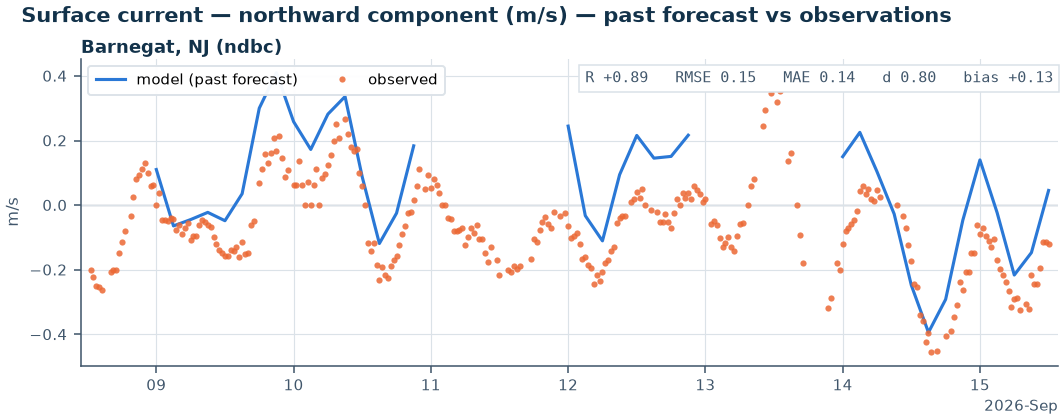
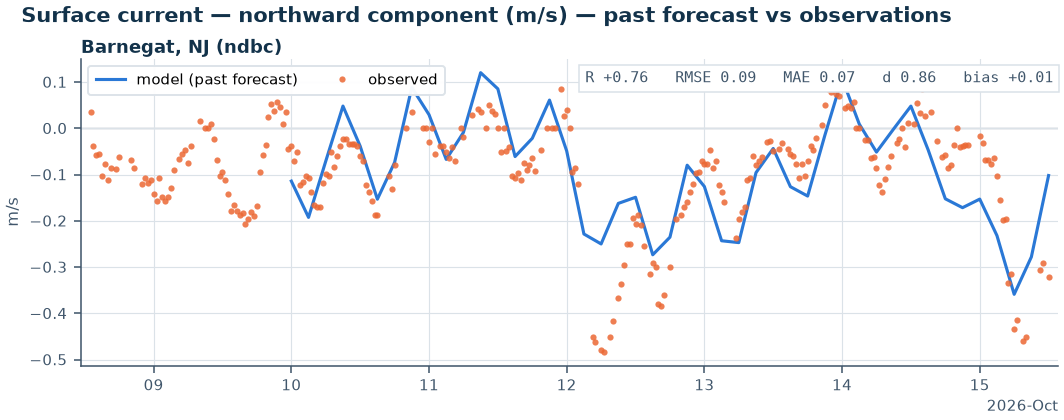
Refresh NYB ROFS prototype with latest forecast cycle and add wind skill
Update skill stats and figures from the 2026-10-15 forecast cycle
(6 past cycles of validation history), add 10 m wind forecast and
skill-check panels, and tighten wording on related product/portfolio
pages to consistently describe the NYB system as a prototype rather
than an operational/daily service.

Claude-Session: https://claude.ai/code/session_01WjMpVuGA6Y16EBbD6ffhXo

diff --git a/site/content/portfolio/independent-projects/regional-ocean-forecast-nyb.md b/site/content/portfolio/independent-projects/regional-ocean-forecast-nyb.md
@@ -1,21 +1,21 @@
 ---
-title: "Regional Operational Ocean Forecast for New York Bight (Prototype)"
+title: "Regional Ocean Forecast for New York Bight (Prototype)"
 date: 2026-01-01
-description: "A self-operated ROMS regional ocean forecast system for the New York Bight, running a daily 5-day forecast cycle for surface currents, water level, temperature, and salinity, with skill checked against NOAA tide gauges."
-challenge: "Operating a forecast system is a different test than building the model itself. The daily cycle — forcing data ingestion, model execution, quality checks, and report generation — has to run reliably every day, and the forecasts have to be checked against what the ocean actually did, not just judged as plausible-looking."
+description: "A prototype ROMS regional ocean forecast system for the New York Bight, run on a local workstation, producing 5-day forecasts of surface currents, water level, temperature, and salinity, with skill checked against NOAA CO-OPS and NDBC observations."
+challenge: "Operating a forecast system is a different test than building the model itself. Each forecast cycle — forcing data ingestion, model execution, quality checks, and report generation — has to run reliably end to end, and the forecasts have to be checked against what the ocean actually did, not just judged as plausible-looking."
 approach: "Run a ROMS configuration for the New York Bight (Long Island Sound through the New York/New Jersey shelf) on a rolling 5-day forecast cycle, ingesting atmospheric forcing and open-boundary/tidal conditions to generate forecasts of surface currents, water level, temperature, and salinity, and checking each cycle's water-level forecast against NOAA CO-OPS tide gauge observations at Sandy Hook, NJ and Montauk, NY."
-result: "The system runs a daily operational cycle whose water-level forecasts track the CO-OPS tide gauge record closely — correlation of 0.95 at Sandy Hook and 0.90 at Montauk — with comparable current skill (R of 0.88-0.89 against an NDBC buoy at Barnegat, NJ) and more mixed sea-surface temperature skill (R of 0.12-0.65 across five stations), tracked daily in the report below."
+result: "In this prototype, water-level forecasts track the CO-OPS tide gauge record closely — correlation of 0.95 at Sandy Hook and 0.87 at Montauk — with somewhat weaker current skill (R of 0.76 against an NDBC buoy at Barnegat, NJ), more mixed sea-surface temperature skill (R of 0.42-0.79 across five stations), and 10 m wind skill (R of 0.64-0.92 across three stations), all tracked in the report below."
 tags: ["ROMS", "operational forecasting", "New York Bight"]
 link: ""
 image: "/img/portfolio/nyb-forecast/cur_speed_snapshots.png"
 weight: 5
 ---
 
-Same underlying capability as the [Regional Ocean Forecast System (ROMS)](/products/modeling-products/regional-forecast-system-roms/) product, now configured for the New York Bight and run independently as a self-directed operational project.
+Same underlying capability as the [Regional Ocean Forecast System (ROMS)](/products/modeling-products/regional-forecast-system-roms/) product, now configured for the New York Bight and run independently as a self-directed prototype on a local workstation.
 
-## Daily Forecast Report
+## Forecast Report
 
-Each daily cycle runs a 5-day forecast on a curvilinear ROMS grid (200×85 rho points) spanning Long Island Sound through the New York/New Jersey shelf, and compiles the results into a report covering:
+Each forecast cycle runs a 5-day forecast on a curvilinear ROMS grid (200×85 rho points) spanning Long Island Sound through the New York/New Jersey shelf, and compiles the results into a report covering:
 
 ![NYB ROMS grid, 200 by 85 rho points, spanning Long Island Sound through the New York/New Jersey shelf, with station output locations marked](/img/portfolio/nyb-forecast/grid_mesh.png)
 *Model domain and grid — the curvilinear ROMS mesh used for the forecast, with output station locations marked.*
@@ -29,19 +29,28 @@ Each daily cycle runs a 5-day forecast on a curvilinear ROMS grid (200×85 rho p
 ![Six-panel forecast of sea-surface salinity across the domain at 24-hour intervals from +0h to +120h](/img/portfolio/nyb-forecast/sss_snapshots.png)
 *Sea-surface salinity over the same 5-day forecast window.*
 
+![Six-panel forecast of 10 m wind speed and direction across the domain at 24-hour intervals from +0h to +120h](/img/portfolio/nyb-forecast/wind_speed_snapshots.png)
+*10 m wind speed and direction (GFS forcing) over the same 5-day forecast window.*
+
 ![Time series of surface current speed and direction, wind speed and direction, sea-surface temperature, and sea-surface salinity at a mid-shelf point forecast location](/img/portfolio/nyb-forecast/point_timeseries.png)
 *Point forecast time series at a mid-shelf location — currents, wind, temperature, and salinity through the forecast window.*
 
 ![Modeled versus observed water level at NOAA CO-OPS tide gauges Sandy Hook, NJ and Montauk, NY, with skill statistics](/img/portfolio/nyb-forecast/validation_zeta_timeseries.png)
-*Daily skill check — modeled water level against NOAA CO-OPS tide gauge observations at Sandy Hook, NJ and Montauk, NY.*
+*Skill check — modeled water level against NOAA CO-OPS tide gauge observations at Sandy Hook, NJ and Montauk, NY.*
 
 ![Modeled versus observed eastward surface current component at an NDBC buoy at Barnegat, NJ, with skill statistics](/img/portfolio/nyb-forecast/validation_cur_u_timeseries.png)
-*Daily skill check — modeled surface current (eastward component) against an NDBC buoy at Barnegat, NJ: R = 0.88, RMSE = 0.11 m/s.*
+*Skill check — modeled surface current (eastward component) against an NDBC buoy at Barnegat, NJ: R = 0.76, RMSE = 0.09 m/s.*
 
 ![Modeled versus observed northward surface current component at an NDBC buoy at Barnegat, NJ, with skill statistics](/img/portfolio/nyb-forecast/validation_cur_v_timeseries.png)
-*Daily skill check — modeled surface current (northward component), same station: R = 0.89, RMSE = 0.15 m/s.*
+*Skill check — modeled surface current (northward component), same station: R = 0.76, RMSE = 0.09 m/s.*
 
 ![Modeled versus observed sea-surface temperature at five NDBC and NOAA CO-OPS stations, with skill statistics](/img/portfolio/nyb-forecast/validation_sst_timeseries.png)
-*Daily skill check — modeled sea-surface temperature against five NDBC/CO-OPS stations. Correlation ranges from 0.12 to 0.65 — noticeably weaker than the water-level and current skill, and an area tracked for ongoing improvement.*
+*Skill check — modeled sea-surface temperature against five NDBC/CO-OPS stations. Correlation ranges from 0.42 to 0.79 — weaker than the water-level skill, and an area tracked for ongoing improvement.*
+
+![Modeled versus observed eastward 10 m wind component at three NDBC and NOAA CO-OPS stations, with skill statistics](/img/portfolio/nyb-forecast/validation_wind_u_timeseries.png)
+*Skill check — modeled 10 m wind (eastward component, GFS forcing) against three NDBC/CO-OPS stations. Correlation ranges from 0.83 to 0.92.*
+
+![Modeled versus observed northward 10 m wind component at three NDBC and NOAA CO-OPS stations, with skill statistics](/img/portfolio/nyb-forecast/validation_wind_v_timeseries.png)
+*Skill check — modeled 10 m wind (northward component), same stations. Correlation ranges from 0.64 to 0.89 — weakest at the New York Harbor Entrance buoy, strongest at Sandy Hook and Montauk.*
 
 No wave forecasting is included in this system — ROMS runs circulation only, without a coupled wave model.

diff --git a/site/content/products/modeling-products/coastal-hydrodynamic-model-schism.md b/site/content/products/modeling-products/coastal-hydrodynamic-model-schism.md
@@ -11,7 +11,7 @@ weight: 15
 ## Description ##
 Coastal and shelf circulation models each make different tradeoffs — grid type, resolution, computational cost, and which physics they resolve well — so I match the model to the domain and the question being asked rather than defaulting to one system:
 
-- **ROMS** — 3D shelf circulation on a structured curvilinear grid, currently configured for the Texas-Louisiana shelf (the same domain used in [Regional Forecast System](/products/modeling-products/regional-forecast-system-roms/)) and for an operational forecast of the New York Bight (see [Regional Operational Ocean Forecast for New York Bight](/portfolio/independent-projects/regional-ocean-forecast-nyb/)). In both cases the model runs on a rolling forecast cycle, forced by NOAA GFS atmospheric data and Copernicus open-boundary conditions with OSU TPXO tides, and checked daily against water-level, current, and temperature observations.
+- **ROMS** — 3D shelf circulation on a structured curvilinear grid, currently configured for the Texas-Louisiana shelf (the same domain used in [Regional Forecast System](/products/modeling-products/regional-forecast-system-roms/)) and for a prototype forecast of the New York Bight (see [Regional Ocean Forecast for New York Bight (Prototype)](/portfolio/independent-projects/regional-ocean-forecast-nyb/)). In both cases the model runs on a rolling forecast cycle, forced by NOAA GFS atmospheric data and Copernicus open-boundary conditions with OSU TPXO tides, and checked against water-level, current, and temperature observations.
 - **SCHISM-WWM** — general-purpose coastal and estuarine circulation on an unstructured grid, which handles complex coastlines and variable resolution (fine nearshore, coarse offshore) more naturally than a structured grid. Configured for the New York Bight, and used as the regional layer in [Hurricane Ike Beach and Dune Erosion Modeling on Bolivar Peninsula (XBeach)](/portfolio/independent-projects/hurricane-ike-beach-dune-erosion-xbeach/) to drive a high-resolution local storm-impact model.
 - **ADCIRC** — storm surge and inundation modeling; see [Hurricane Wave and Storm Surge Modeling](/products/modeling-products/hurricane-wave-storm-surge-modeling/) for the coupled ADCIRC-SWAN storm-surge setup for Galveston Bay.
 
@@ -20,7 +20,7 @@ The same toolkit extends to standalone wave modeling with SWAN (nearshore/shelf)
 <!-- [Add: grid resolution and validation results for the SCHISM-WWM New York Bight and ADCIRC Galveston Bay configurations.] -->
 
 ## Example ##
-- [Regional Operational Ocean Forecast for New York Bight](/portfolio/independent-projects/regional-ocean-forecast-nyb/) — ROMS, daily operational forecast cycle
+- [Regional Ocean Forecast for New York Bight (Prototype)](/portfolio/independent-projects/regional-ocean-forecast-nyb/) — ROMS, prototype 5-day forecast
 - [Hurricane wave and storm surge modeling for Galveston Bay](/portfolio/independent-projects/hurricane-ike-schism-wwm-nested-validation/) — SCHISM-WWM and ADCIRC-SWAN
 - [Hurricane Ike Beach and Dune Erosion Modeling on Bolivar Peninsula (XBeach)](/portfolio/independent-projects/hurricane-ike-beach-dune-erosion-xbeach/) — SCHISM-WWM regional storm hindcast feeding a local XBeach model
 

diff --git a/site/content/portfolio/independent-projects/wave-surge-model-intercomparison.md b/site/content/portfolio/independent-projects/wave-surge-model-intercomparison.md
@@ -4,7 +4,7 @@ date: 2026-01-01
 description: "Comparing coupled ADCIRC-SWAN and SCHISM-WWM storm surge and wave models for the Galveston, Texas coast, nested from a Gulf of Mexico regional domain, against Hurricane Harvey (2017)."
 challenge: "Coupled wave-surge models differ in mesh type, coupling approach, and computational cost, and it's often unclear which setup best fits a specific coastal application without actually running both against the same storm, the same nesting strategy, and the same observation network."
 approach: "Set up both ADCIRC-SWAN and SCHISM-WWM for the Galveston, Texas coast using a nested-domain approach: running each model first over a Gulf of Mexico regional domain, then nesting a local Galveston-area domain driven by boundary conditions from that Gulf-wide run. Checked every result against the same eight NOAA CO-OPS water-level gauges and the NDBC buoy at 42035."
-result: "At the regional Gulf-of-Mexico scale, SCHISM-WWM matched observed wave heights better than ADCIRC-SWAN and finished in roughly a third of the total compute. At the local Galveston scale, SCHISM-WWM reproduced roughly 70–90% of the observed storm-surge rise at the five open-coast and inlet gauges (correlation 0.68–0.89) and ADCIRC-SWAN roughly 30–45% (correlation 0.57–0.83). Local current speed is only about a third of the observed depth-averaged value: about half on tide-only days, and much less during the storm because the run has no river or rainfall inflow to drive the sustained outflow the current meter recorded. Two bay-interior gauges also don't respond in the model at all — all documented below as open problems."
+result: "Preliminary results (work ongoing): at the regional Gulf-of-Mexico scale, SCHISM-WWM matched observed wave heights better than ADCIRC-SWAN and ran about 4.5x faster in wall-clock time, using roughly a third of the total compute. At the local Galveston scale, SCHISM-WWM reproduced roughly 70–90% of the observed storm-surge rise at the five open-coast and inlet gauges (correlation 0.68–0.89) and ADCIRC-SWAN roughly 30–45% (correlation 0.57–0.83). Local current speed is only about a third of the observed depth-averaged value: about half on tide-only days, and much less during the storm because the run has no river or rainfall inflow to drive the sustained outflow the current meter recorded. Two bay-interior gauges also don't respond in the model at all — all documented below as open problems."
 tags: ["SCHISM", "WWM", "ADCIRC", "SWAN", "storm surge", "wave modeling", "Hurricane Harvey", "nested modeling", "model inter-comparison"]
 link: ""
 image: "/img/portfolio/wave-surge-intercompare/spectra_compare.png"

diff --git a/site/content/products/modeling-products/hurricane-wave-storm-surge-modeling.md b/site/content/products/modeling-products/hurricane-wave-storm-surge-modeling.md
@@ -13,7 +13,7 @@ A coupled ADCIRC-SWAN or SCHISM-WWM modeling setup for the Gulf of Mexico coast,
 
 Storms are forced with a parametric GAHM vortex wind field built from HURDAT2 best-track data, fit to each storm's own size and intensity rather than a single generic profile. Every run is checked against real observations — NOAA CO-OPS water-level gauges, NDBC buoys, and NOAA PORTS current meters where available — rather than judged as physically plausible on appearance alone. That validation has caught genuine, fixable issues: a wind-forcing radius-of-maximum-winds bug that overestimated peak winds by nearly 2x for an intense storm, a bathymetric datum mismatch that biased modeled storm surge until corrected station-by-station, and an offshore-boundary placement that was quietly losing wave energy before it reached the coast.
 
-Running both model pairs against the same storm also surfaces real tradeoffs between them: for Hurricane Harvey, SCHISM-WWM matched observed wave heights better than ADCIRC-SWAN at the regional Gulf-of-Mexico scale and finished in roughly a third of the total compute, while at the local Galveston scale storm-surge skill was comparable between the two, with both sharing the same weak spot at shallow, bay-interior gauges.
+Running both model pairs against the same storm also surfaces real tradeoffs between them: for Hurricane Harvey, SCHISM-WWM matched observed wave heights better than ADCIRC-SWAN at the regional Gulf-of-Mexico scale and ran about 4.5x faster in wall-clock time (roughly a third of the total compute), while at the local Galveston scale storm-surge skill was comparable between the two, with both sharing the same weak spot at shallow, bay-interior gauges.
 
 ## Example
 - [Hurricean wave and storm surge inter-comparison for Hurricane Harvey](/portfolio/independent-projects/wave-surge-model-intercomparison/)

diff --git a/site/content/products/modeling-products/regional-forecast-system-roms.md b/site/content/products/modeling-products/regional-forecast-system-roms.md
@@ -21,7 +21,7 @@ I can use various computer systems to implement operational forecasts depending 
 - Local workstation
 
 ## Example
-- [New York Bight Operational Forecast](/portfolio/independent-projects/regional-ocean-forecast-nyb/) — Prototype operational forecast for NYB
+- [New York Bight Forecast (Prototype)](/portfolio/independent-projects/regional-ocean-forecast-nyb/) — Prototype 5-day forecast for NYB
 - [Texas-Louisiana Operational Ocean Forecast](https://gcoos5.geos.tamu.edu/thredds/catalog/ROFS_latest/catalog.html) — Operational forecast maintained at Texas A&M University 
 
 *Thumbnail: The Gulf Stream, MODIS/Aqua — public domain (NASA Earth Observatory, Norman Kuring/MODIS Ocean Team).*
